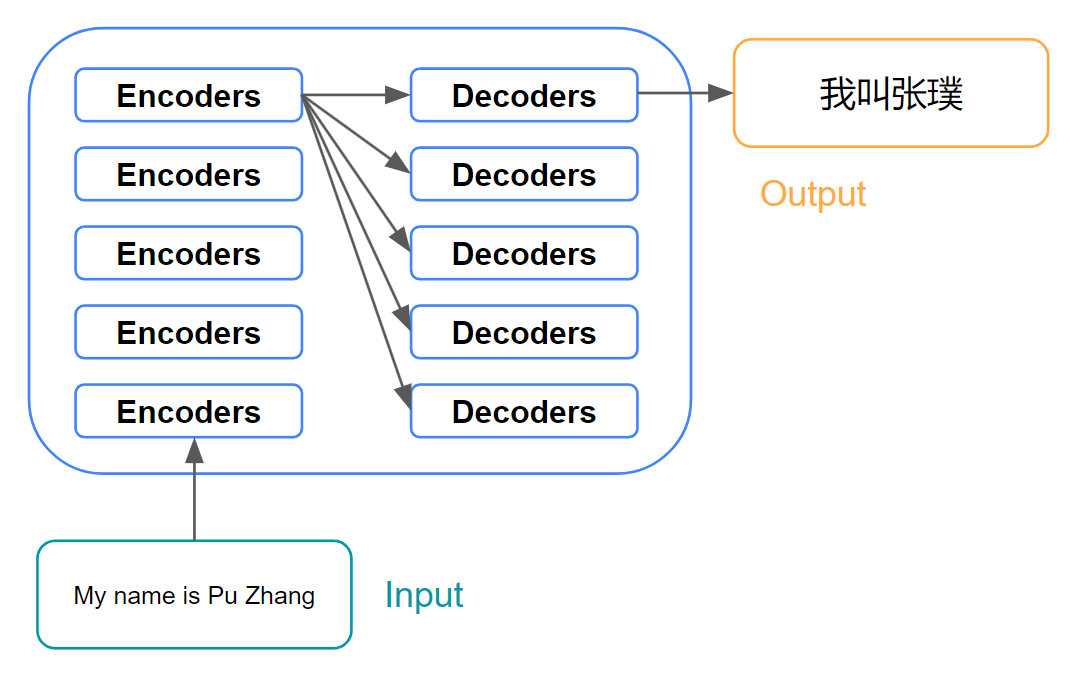
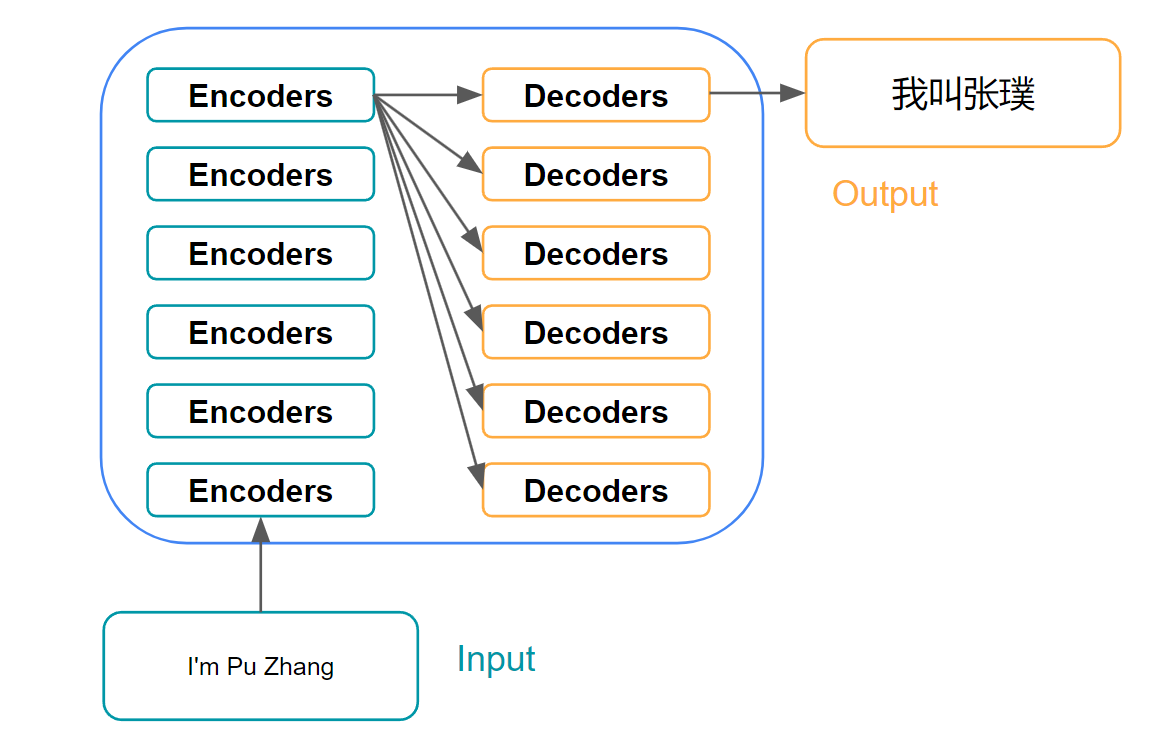
transformer post

diff --git a/content/posts/transformer/index.md b/content/posts/transformer/index.md
@@ -15,12 +15,31 @@ Introduced by the famous paper [Attention is All You Need](https://arxiv.org/abs
 
 ### Transformer Architecture
 
-
+From very level, we can treat the transformer as a black box. In the machine translation area, it takes the input sentence in one language and output the translated sentence in another language. 
 *<center>![arch-level0](images/arch-level0.png)</center>*
 *<center><font size="3">Transformer High Level Arch(by Pu Zhang)</font></center>*
+
+Taking a deeper look, the transformer architecure consists an encoding component and an decoding component. 
 
 *<center>![arch-level1](images/arch-level1.png)</center>*
 *<center><font size="3">Transformer Arch Breakdown(by Pu Zhang)</font></center>*
 
+The encoding component is a stack of encoders(six encoders) and the decoding component is a stack of decoders(six decoders). 
+
 *<center>![arch-level2](images/arch-level2.png)</center>*
 *<center><font size="3">Transformer Arch Further Breakdown(by Pu Zhang)</font></center>*
+
+All encoders have the same structure, which is a self-attention layer followed by feed forward layer. These encoders do not share weights.
+
+*<center>![arch-encoder-level0](images/arch-encoder-level0.png)</center>*
+*<center><font size="3">Transformer Encoder Breakdown(by Pu Zhang)</font></center>*
+
+All decoders have the same structure as well, and each decoder's structure is similar to each encoder's structure, but with one additional layer. So each decoder has a self-attention layer, followed by an encoder-decoder attention layer and then followed by an feed forward layer.
+
+*<center>![arch-decoder-level0](images/arch-decoder-level0.png)</center>*
+*<center><font size="3">Transformer Decoder Breakdown(by Pu Zhang)</font></center>*
+
+When words flows through the network, they will be transformed into word embeddings first. One key property of transformer is that each word will be processed independently, which is in contrast to recurrent architectures like LSTM or RNN where the processing of one word depends on the previous word. In the self-attention layer, each word will interfact with all other words to determine which words it should "attend to". So there is a dependency between words in this layer. But after the self-attention layer, the feed-forward layer is applied to each word's position separately, so the computations for each position in the feed-forward layer can be executed in parallel. And this is a big advantage for parallel processing on GPUs.
+
+*<center>![word-flow](images/word-flow.png)</center>*
+*<center><font size="3">Transformer Encoder Flow(by Pu Zhang)</font></center>*
